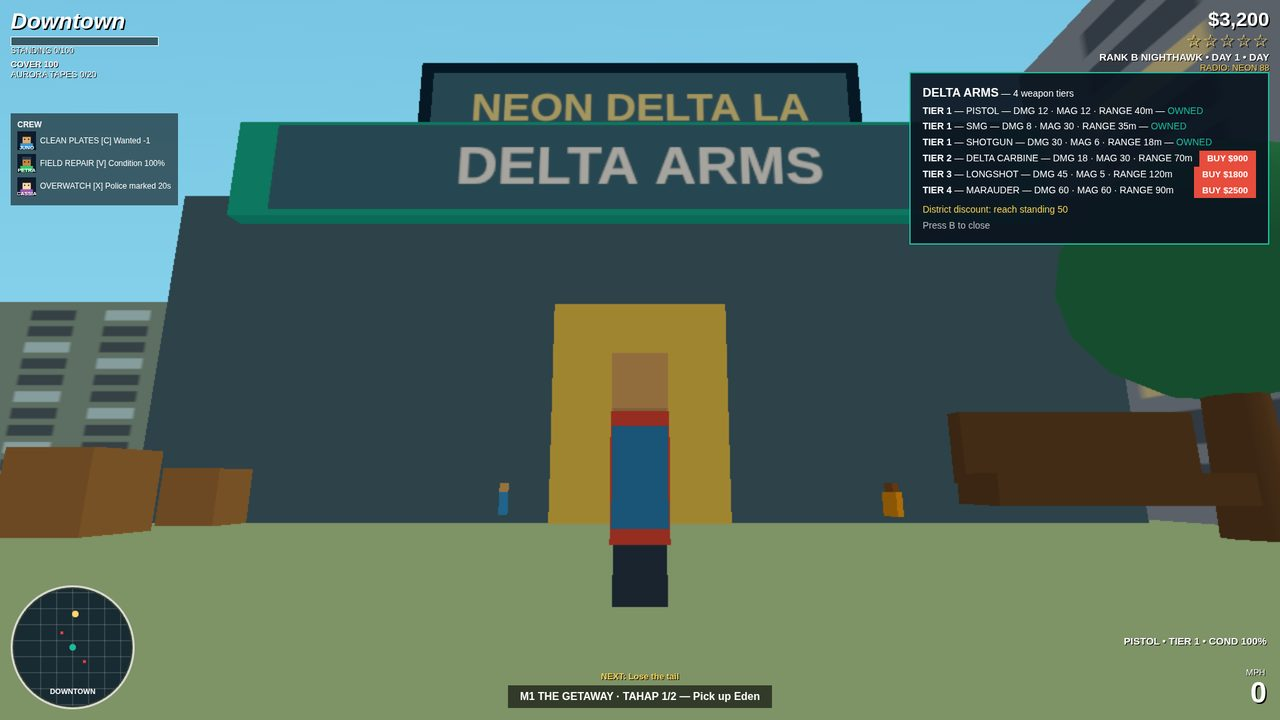
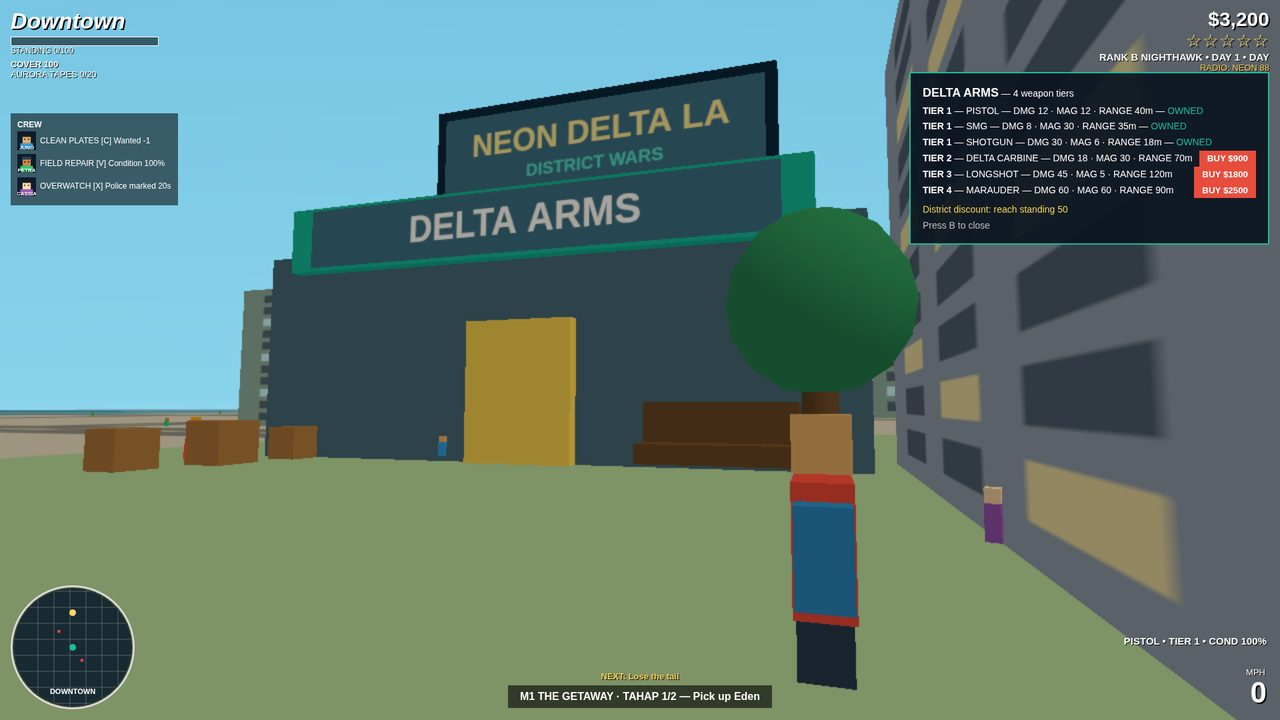
Round 8 v20: composition — Mara large without blocking landmarks, boat on open water

diff --git a/game/src/shots.js b/game/src/shots.js
@@ -11,14 +11,17 @@
 //      wheel open showing the 4 tiers (small, off-centre). Camera
 //      LOW and CLOSE behind the car on the x=-320 road, looking north.
 //   2 shop: DELTA ARMS front with tier labels, Mara LARGE and whole
-//      centre-frame, parked car + bench + crates + newspaper box +
-//      bin, no bike rack, rooftop billboard. Camera just behind Mara,
-//      low, looking at the shop front.
+//      right-of-centre (east of the door, against the dark wall),
+//      parked car + bench + crates + newspaper box +
+//      bin, no bike rack, rooftop billboard with DISTRICT WARS
+//      readable. Camera just behind Mara, pulled back and raised
+//      so the billboard clears the DELTA ARMS sign.
 //   3 pier at night: stalls readable (name signs, none cut off),
 //      string lights, ferris wheel + fireworks, palm, COTTON CANDY
-//      sign, 8+ NPCs on the deck, Mara large and visible, bright
-//      night market. Camera on the deck, low, centred on the middle
-//      stall, looking west along it.
+//      sign, 8+ NPCs on the deck, Mara large and visible
+//      right-of-centre, bright night market. Camera on the deck,
+//      low, pulled back a little so Mara is a quarter of the
+//      frame and the wheel stays clear of her.
 //   4 port at dusk 18:00: crane load in frame, deep red dusk sky,
 //      freeway bridge, containers + lamps + puddles + the boat LARGE
 //      at the south dock, the hero car LARGE side-on, Mara LARGE on
@@ -95,18 +98,20 @@ export function applyShot(n, world, traffic, police) {
     return { camera: { x: -320, y: 6, z: -238 }, look: { x: -320, y: 5, z: -290 } };
   }
   if (n === 2) {
-    // Mara LARGE, whole, centre-frame, back view, on the shop
-    // centreline so the DELTA ARMS sign and the rooftop billboard
-    // read centred above her. She faces the shop (angle PI, back
-    // to the camera); the camera sits ~10 units behind her at
-    // shoulder height, looking up at the shop mid-height — at that
-    // distance her x1.8 scale fills about a third of the frame,
-    // whole from head to boots, with the sign and the billboard
-    // both still in frame above her.
+    // Mara LARGE, whole, right-of-centre, back view, standing
+    // EAST of the door's centreline so the yellow door is a
+    // separate element to her left, not a huge flat wall directly
+    // behind her — she reads against the dark shop wall instead.
+    // The camera sits 10 units behind her but pulled back to
+    // z = SHOP.z + 50 and raised to y = 4: from there the sightline
+    // to the rooftop billboard clears the top of the DELTA ARMS
+    // sign, so the "DISTRICT WARS" subtitle reads instead of
+    // hiding behind the sign. The DELTA ARMS sign and the
+    // NEON DELTA LA billboard both stay readable above her.
     world.hour = 10;
     world.wanted.level = 0;
     world.player.onFoot = true;
-    world.player.x = SHOP.x; world.player.z = SHOP.z + 30; world.player.angle = Math.PI;
+    world.player.x = SHOP.x + 20; world.player.z = SHOP.z + 40; world.player.angle = Math.PI;
     world.money = 3200; world.rp = 340; world.rankCode = 'B';
     world.shopOpen = true;
     // Parked car on the road west of the shop, in frame, clear of
@@ -118,21 +123,25 @@ export function applyShot(n, world, traffic, police) {
       const p = traffic.peds[i + 1];
       p.x = pedSpots[i][0]; p.z = pedSpots[i][1]; p.angle = 2.6;
     }
-    return { camera: { x: SHOP.x, y: 1.8, z: SHOP.z + 40 }, look: { x: SHOP.x, y: 10, z: SHOP.z } };
+    return { camera: { x: SHOP.x + 20, y: 4, z: SHOP.z + 50 }, look: { x: SHOP.x + 5, y: 8, z: SHOP.z } };
   }
   if (n === 3) {
-    // Pier at night, camera close behind Mara so she is LARGE,
-    // whole and centre-frame, back view, facing the stalls (angle
-    // -PI/2, back to the camera). All three stalls (BALLOONS,
-    // ARCADE, SNO-CONES) sit in frame behind her, with the ferris
-    // wheel, fireworks, palm and string lights; the mission is M7
-    // (Inez Vargas). Mara stands 10 units east of the camera and
-    // the camera sits 58 units east of the stall row, so the row's
-    // 80-unit span fits the frame with all three signs readable.
+    // Pier at night: Mara LARGE and whole, back view, facing the
+    // stalls (angle -PI/2, back to the camera) — but OFF-CENTRE
+    // to the right, and the camera pulled back a little, so she
+    // is roughly a quarter of the frame tall and does NOT block
+    // the ferris wheel or the ARCADE sign: the wheel, the
+    // fireworks and all three stall signs (SNO-CONES, ARCADE,
+    // BALLOONS) stay fully visible around her. She stands 13
+    // units west of the camera and 4 units south of the look
+    // line, which puts her right-of-centre; the mission is M7
+    // (Inez Vargas). The camera sits 58 units east of the stall
+    // row, so the row's 80-unit span fits the frame with all
+    // three signs readable.
     world.hour = 22;
     world.wanted.level = 1;
     world.player.onFoot = true;
-    world.player.x = -652; world.player.z = 432; world.player.angle = -Math.PI / 2;
+    world.player.x = -652; world.player.z = 428; world.player.angle = -Math.PI / 2;
     world.money = 1800; world.rp = 480; world.rankCode = 'B';
     world.missions.current = 7; world.missions.objective = 0;
     // 10 NPCs on the pier deck around the stalls.
@@ -145,44 +154,52 @@ export function applyShot(n, world, traffic, police) {
       const c = traffic.cars[i];
       c.x = -640 + i * 8; c.z = 560 + i * 6; c.angle = 0; c.speed = 0;
     }
-    return { camera: { x: -642, y: 1.8, z: 432 }, look: { x: -720, y: 6, z: 435 } };
+    return { camera: { x: -639, y: 1.8, z: 432 }, look: { x: -720, y: 6, z: 435 } };
   }
   // Shot 4: port at dusk, crane load in frame, boat at the south dock.
-  // Mara LARGE + boat LARGE + crane all fit by DEPTH: the camera
-  // sits low on the dock looking west-northwest, so Mara is large
-  // in the right foreground (back view, whole, on the dock edge),
-  // the boat is large in the left mid-ground on the water, and the
-  // crane and the freeway bridge close the background. The hero
-  // car is side-on in the mid-ground. The mission is M8 (Orin Beck).
+  // Mara LARGE + boat LARGE + crane all fit by DEPTH, and the
+  // camera now sits SOUTH-EAST of the dock, just over the water
+  // (z = 624, past the dock edge at z = 620), looking
+  // west-northwest: the near foreground is blue water, not grey
+  // concrete, so the boat reads as a boat ON the water. Mara is
+  // large in the right foreground on the dock edge (back view,
+  // whole), the hero car is side-on near the centre, the boat is
+  // large in the left mid-ground well out in open water (its hull
+  // sits ~23 units south of the dock edge, water all around it),
+  // and the crane and the freeway bridge close the background —
+  // the camera is far enough east that the crane's jib and load
+  // fit inside the frame instead of being cut at the edge. The
+  // mission is M8 (Orin Beck).
   world.hour = 18;
   world.wanted.level = 2;
-  // The hero car sits west of Mara so she does not block it.
-  world.car.x = 520; world.car.z = 595; world.car.angle = 0.4; world.car.speed = 0;
+  // The hero car sits east of the dock centre, side-on, near the
+  // camera so it reads large in the mid-ground without Mara
+  // blocking it.
+  world.car.x = 570; world.car.z = 600; world.car.angle = 0.4; world.car.speed = 0;
   world.player.onFoot = true;
   // Mara on the dock edge, facing northwest away from the camera
-  // (back view); the camera sits southeast of her.
-  world.player.x = 546; world.player.z = 603; world.player.angle = -3 * Math.PI / 4;
+  // (back view); the camera sits southeast of her, over the water.
+  world.player.x = 607; world.player.z = 615; world.player.angle = -3 * Math.PI / 4;
   world.money = 5100; world.rp = 900; world.rankCode = 'A';
   world.missions.current = 8; world.missions.objective = 0;
   // The boat turns to a three-quarter view so the hull, the teal
   // cabin and the mast all read instead of one long grey side.
-  // Moored further west along the shore so the whole hull, cabin
-  // and mast sit fully inside the frame, left of centre — and
-  // further out into open water, so blue water shows around it
-  // and the amber hull reads against the water, not the dock.
-  world.boat.x = 470; world.boat.z = 640; world.boat.angle = Math.PI / 4;
+  // Moored well out in open water south of the dock, so blue
+  // water shows around the amber hull on every side and it reads
+  // as one boat shape at a glance, not a dock wall.
+  world.boat.x = 465; world.boat.z = 655; world.boat.angle = Math.PI / 4;
   startRace(world.race, 'port', 42);
   const carSpots = [[420, 540], [520, 560], [360, 580], [560, 520], [580, 590]];
   for (let i = 0; i < carSpots.length; i += 1) {
     const c = traffic.cars[i];
     c.x = carSpots[i][0]; c.z = carSpots[i][1]; c.angle = -0.6; c.speed = 0;
   }
-  const pedSpots = [[400, 520], [440, 560], [500, 540], [460, 600], [540, 580], [380, 560], [470, 600], [570, 600]];
+  const pedSpots = [[400, 520], [440, 560], [500, 540], [460, 600], [540, 580], [380, 560], [470, 600], [585, 605]];
   for (let i = 0; i < pedSpots.length; i += 1) {
     const p = traffic.peds[i];
     p.x = pedSpots[i][0]; p.z = pedSpots[i][1]; p.angle = 2.2;
   }
-  return { camera: { x: 556, y: 2, z: 610 }, look: { x: 460, y: 3, z: 582 } };
+  return { camera: { x: 620, y: 2.5, z: 624 }, look: { x: 506, y: 6, z: 587 } };
 }
 
 export function shotFile(n) {
